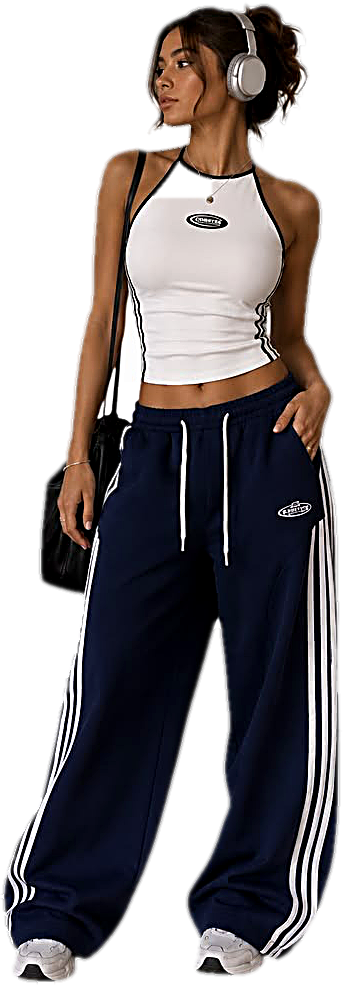
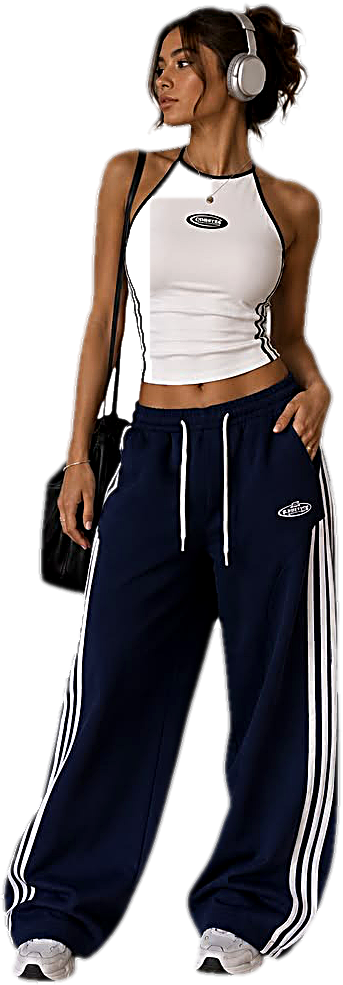
Fashion carousel: clear remaining background slivers, boost shoe contrast
- Remove leftover white background in the streetwear arm/torso gap and the
  traditional finger gap that survived the previous pass
- Darker silhouette edge + contact pool so the comfort model's white sneakers
  fully separate from the light backdrop

Changed region(s): [[0.3499, 0.2132, 0.4373, 0.3959], [0.3207, 0.3655, 0.3499, 0.3959]]

diff --git a/components/StyleCarousel.css b/components/StyleCarousel.css
@@ -37,8 +37,8 @@
   filter:
     drop-shadow(0 16px 22px rgba(0,0,0,.45))
     drop-shadow(0 4px 7px rgba(0,0,0,.34))
-    drop-shadow(0 0 2px rgba(0,0,0,.55))
-    drop-shadow(0 0 1px rgba(0,0,0,.55));
+    drop-shadow(0 0 2.5px rgba(0,0,0,.72))
+    drop-shadow(0 0 1.3px rgba(0,0,0,.72));
 }
 
 /* Mini pedestal — a soft round disc the figure appears to stand on. Two
@@ -55,7 +55,7 @@
   width: 76%; aspect-ratio: 4.2 / 1; z-index: 0;
   transform: translate(-50%, 60%);
   background: radial-gradient(ellipse at center,
-    rgba(0,0,0,.44), rgba(0,0,0,.16) 44%, transparent 72%);
+    rgba(0,0,0,.55), rgba(0,0,0,.2) 42%, transparent 70%);
   filter: blur(4px);
 }
 .stylecar__figure::after {           /* lit disc the feet rest on */
